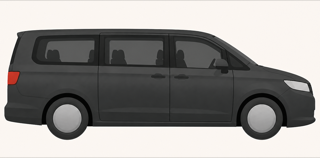
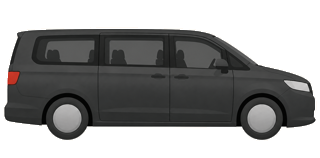
Cut the plate out of the vehicle artwork and quieten the hero
The type drawings carried a flat rectangle with them, so every chip had to
paint itself the same off-white to hide it. A build script floods the plate
from the border — crossing only pixels close to it, which leaves headlights
and wheel hubs untouched where a colour threshold would punch holes — and the
files become cut-outs. The tag is now an ordinary tinted pill that works on
any surface.

The hero also drops the direction switch and the journey line: seats,
distance and duration are stated in the facts row directly beneath it, and
direction belongs to the request rather than to the page describing the car.

diff --git a/src/pages/TransferPage/TransferPage.jsx b/src/pages/TransferPage/TransferPage.jsx
@@ -11,7 +11,6 @@ import {
   ObjectHeroGallery,
   ObjectMainTags,
   ObjectReviews,
-  SegmentedControl,
   SiteFooter,
   SiteNavbar,
   TransferConditions,
@@ -49,7 +48,7 @@ function factValue(facts, labels) {
 export function TransferPage() {
   const { slug } = useParams();
   const navigate = useNavigate();
-  const [searchParams, setSearchParams] = useSearchParams();
+  const [searchParams] = useSearchParams();
   const { language, t, tList } = useLanguage();
   const [transfer, setTransfer] = useState(null);
   const [related, setRelated] = useState([]);
@@ -183,17 +182,6 @@ export function TransferPage() {
   const bodyTypeLabel = transfer.vehicle?.bodyType ? t(`catalog.transfers.vehicleTypes.${transfer.vehicle.bodyType}`) : null;
   // The heading names the actual car; its class and capacity sit under it.
   const modelName = [transfer.vehicle?.make, transfer.vehicle?.model].filter(Boolean).join(' ') || vehicle.name || transfer.name;
-  const journeyNote = [
-    route.zoneType,
-    route.distanceKm ? `≈${route.distanceKm} ${t('transfer.km')}` : null,
-    route.duration,
-  ].filter(Boolean).join(' · ');
-  const setDirection = (next) => {
-    const params = new URLSearchParams(searchParams);
-    if (next === 'from-gudauri') params.set('direction', 'from-gudauri');
-    else params.delete('direction');
-    setSearchParams(params, { replace: true });
-  };
   const hero = <ObjectHero
     variant="split"
     mediaVariant="gallery"
@@ -212,18 +200,6 @@ export function TransferPage() {
     </>}
     description={transfer.description}
     rating={transfer.rating ? { value: transfer.rating, reviewsLabel: transfer.reviews, href: '#reviews' } : undefined}
-    details={<div className="transfer-hero-controls">
-      {journeyNote ? <p className="transfer-hero-controls__note">{journeyNote}</p> : null}
-      {route.bidirectional === false ? null : <SegmentedControl
-        label={t('transfer.directionLabel')}
-        options={[
-          { value: 'to-gudauri', label: t('transfer.toAnchor', { place: route.destination }) },
-          { value: 'from-gudauri', label: t('transfer.fromAnchor', { place: route.destination }) },
-        ]}
-        value={direction}
-        onChange={setDirection}
-      />}
-    </div>}
     media={<ObjectHeroGallery
       showPreviews={false}
       images={gallery}

diff --git a/src/components/UI/VehicleTypeIcon/VehicleTypeIcon.scss b/src/components/UI/VehicleTypeIcon/VehicleTypeIcon.scss
@@ -1,28 +1,25 @@
-/* The artwork ships on a warm off-white plate. Rather than cut five files out,
-   whatever holds the drawing paints itself the same colour, so the edge of the
-   plate disappears into the chip or the button around it. */
-:root { --vehicle-plate: #faf7f2; }
-
+/* The artwork is cut out, so the drawing sits directly on whatever surface
+   holds it — a card, a tinted chip, a filter button — with no plate to hide. */
 .ui-vehicle-icon {
   width: 100%;
   height: auto;
   display: block;
-  background: var(--vehicle-plate);
 }
 
 .ui-vehicle-tag {
   flex: none;
-  padding-right: var(--space-300);
+  min-height: 32px;
+  padding: 0 var(--space-350) 0 var(--space-200);
   display: inline-flex;
   align-items: center;
   gap: var(--space-200);
   border-radius: var(--radius-pill);
-  background: var(--vehicle-plate);
-  color: var(--text-secondary);
+  background: var(--surface-tint-cool);
+  color: var(--text-primary);
 }
 
 .ui-vehicle-tag .ui-vehicle-icon {
-  width: 52px;
+  width: 46px;
   flex: none;
 }
 

diff --git a/src/pages/TransferPage/TransferPage.scss b/src/pages/TransferPage/TransferPage.scss
@@ -19,18 +19,6 @@
   letter-spacing: 0;
 }
 
-.transfer-hero-controls {
-  display: grid;
-  justify-items: start;
-  gap: var(--space-400);
-}
-
-.transfer-hero-controls__note {
-  margin: 0;
-  color: var(--text-secondary);
-  font-size: var(--type-body-small-size);
-  line-height: 1.45;
-}
 
 /* A display size tuned for a full-width heading breaks a two-word body type
    across lines in half the width, so the split hero takes its own scale. */
